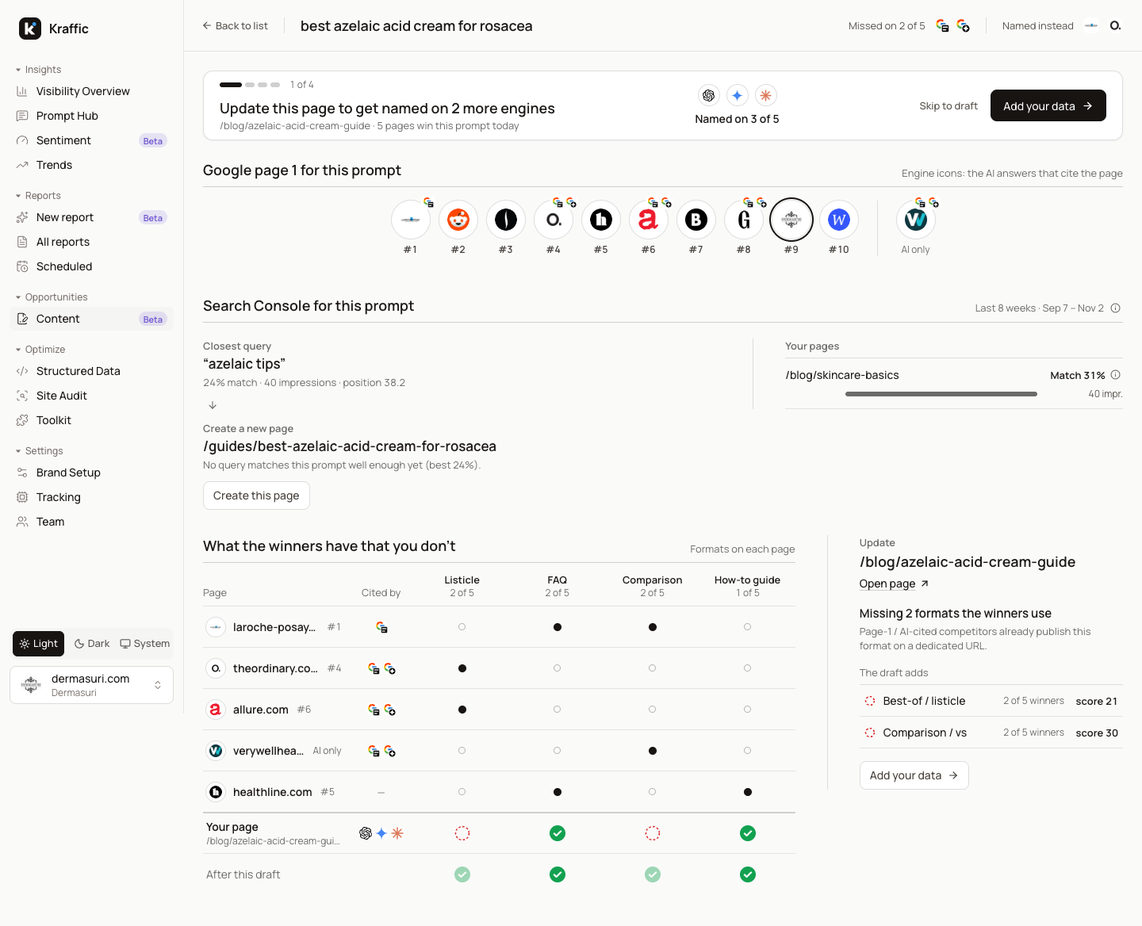
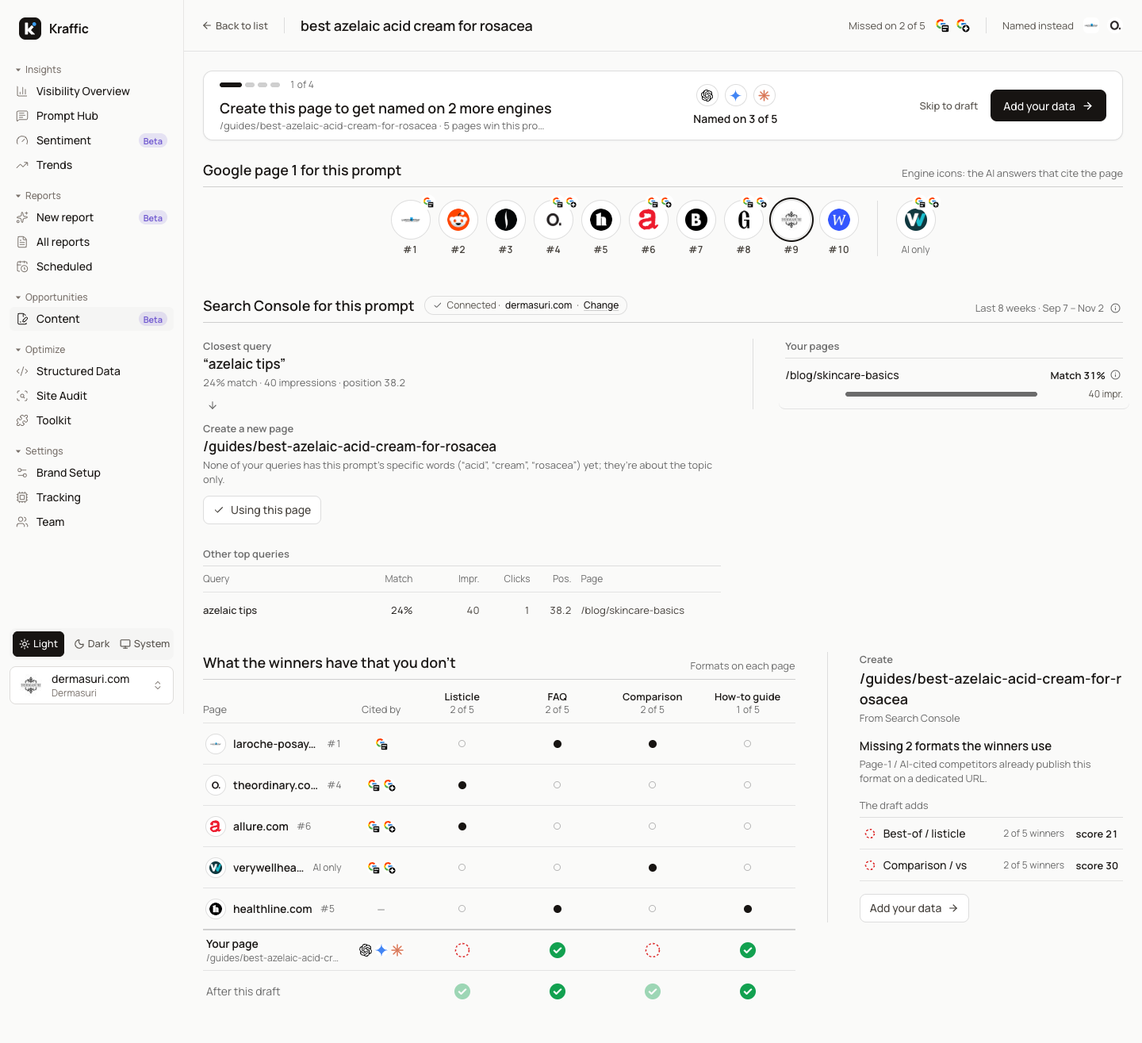
Search Console: the owner's intent rule replaces the proposed kinds (mirrors the app's matcher, feat/content-page 4385c8e). A query can be the Best query only if it matches the prompt's core intent words (the words that make it specific, not the topic): topic words = the prompt's key terms in at lea

diff --git a/src/data/gscMatch.js b/src/data/gscMatch.js
@@ -13,11 +13,14 @@
 //
 // Preview states (?co=): gsc-new = not connected · gsc-reconnect · gsc-nodomain · gsc-nodata (connected, no data).
 //
-// Intent fit (PROPOSED, owner 2026-11-04 "the best query follows the prompt's intent"; the mock's rule, to confirm):
-// a prompt and a query each read as a question / how-to, a comparison (best, top, vs, review) or a shopping search
-// (price, buy, deal, sale, coupon, near me, a store). A query whose kind clashes with the prompt's (a question or how-to
-// prompt vs a shopping query; a comparison prompt vs a how-to query) is scored ×0.7 (`intentFit: false`) and can't be
-// the Best query while a query that fits, with ≥ 10 impressions, exists.
+// Intent (owner, 2026-11-04; the app's matcher feat/content-page 4385c8e): a query can be the Best query only if it
+// matches the prompt's core intent term(s), the words that make the question specific ("breakouts" in "can
+// pigmentation serum cause breakouts"), not just the topic words. Topic words = the prompt's key terms found in at least
+// half of its matching queries (TOPIC_SHARE); intent words = its other key terms, without the local / account marker
+// words (those keep their half-score tag). Synonyms count as one: breakout(s) = acne = purging = pimples; cost = fees =
+// price; grow = growth = increase. Each query gets intentMatch (true when the prompt has no intent words); the list
+// sorts intent matches first, then by rank (adjusted × log10(impr + 1)); topic-only queries keep their score. Best:
+// an intent match with ≥ 10 impressions that isn't a site query; none → no Best (never a topic-only one).
 import { CO_BRAND, CO_BRANDS } from './contentOpportunities.js'
 import { coStates, gscKeywordsFor, newPageFor, promptWords } from './contentOpportunities-proposed.js'
 import { RM_BRAND } from './contentRecommendRm.js'
@@ -25,7 +28,7 @@ import { RM_BRAND } from './contentRecommendRm.js'
 export const MATCH_WEIGHTS = { coverage: 55, precision: 20, phrase: 25 }
 export const PAGE_WEIGHTS = { query: 45, volume: 20, rank: 15, url: 15, cited: 5 }
 export const INTENT_PENALTY = { account: 0.5, local: 0.5, site: 0.5 }
-export const MISFIT = 0.7 // a query whose kind clashes with the prompt's (intentFit: false)
+export const TOPIC_SHARE = 0.5
 export const BEST_MIN_IMPRESSIONS = 10
 export const CREATE_BELOW = 30
 export const LAG_NOTE = 'Search Console data is about 2 days behind.'
@@ -56,29 +59,27 @@ export function matchOf(prompt, query) {
   const phrase = q.slice(1).some((w, i) => pairs.has(`${q[i]} ${w}`)) ? 1 : 0
   return Math.round(MATCH_WEIGHTS.coverage * coverage + MATCH_WEIGHTS.precision * precision + MATCH_WEIGHTS.phrase * phrase)
 }
-// the kind of search: 'shop' (price, buy, deal, sale, coupon, near me, a store) · 'question' (how / what / why / can /
-// is …, how to) · 'compare' (best, top, vs, review) · null
-const SHOP = /\b(price|prices|buy|deal|deals|sale|coupon|discount|cheap|near me|shop|store|amazon|walmart|ulta|sephora|in stock)\b/
-const COMPARE = /\b(vs|versus|best|top|compare|comparison|review|reviews|rated)\b/
-const QUESTION = /^(how|what|why|can|is|are|does|do|should|when|which|will)\b|\bhow to\b/
-export const searchKind = (s) => { const t = String(s).toLowerCase(); return SHOP.test(t) ? 'shop' : QUESTION.test(t) ? 'question' : COMPARE.test(t) ? 'compare' : null }
-// does a query's kind fit the prompt's? (a question prompt vs a shopping query, or a comparison prompt vs a how-to: no)
-export const intentFits = (prompt, query) => {
-  const p = searchKind(prompt), q = searchKind(query)
-  if (p === 'question' && q === 'shop') return false
-  if (p === 'compare' && q === 'question') return false
-  return true
+// one word per meaning: synonyms (owner's list) and a plain plural → the same key
+const SYN = [['breakout', 'breakouts', 'acne', 'purging', 'pimple', 'pimples'], ['cost', 'costs', 'fee', 'fees', 'price', 'prices', 'pricing'], ['grow', 'grows', 'growth', 'increase', 'increases']]
+const SYN_OF = new Map(SYN.flatMap((g) => g.map((w) => [w, g[0]])))
+export const canon = (w) => SYN_OF.get(w) ?? (w.length > 4 && w.endsWith('s') && !w.endsWith('ss') ? w.slice(0, -1) : w)
+const canonWords = (s) => new Set(promptWords(s).map(canon))
+// the local / account markers aren't intent words (they keep their own half-score tag)
+const MARKER = (w) => ACCOUNT.test(w) || LOCAL.test(w) || w === 'near' || w === 'me'
+// the prompt's intent words, from its matching queries: its key terms that fewer than half of them contain
+export function intentTerms(prompt, queries) {
+  const terms = [...new Set(promptWords(prompt).map(canon))].filter((w) => !MARKER(w))
+  if (!queries.length) return terms
+  const sets = queries.map((q) => canonWords(q.query))
+  return terms.filter((t) => sets.filter((ws) => ws.has(t)).length / sets.length < TOPIC_SHARE)
 }
-const adjustedOf = (match, intent, fit = true) => Math.round(match * (intent ? INTENT_PENALTY[intent] : 1) * (fit ? 1 : MISFIT))
-// kind: the prompt's searchKind. Tiers: a well-matched query (≥ 30) of the prompt's own kind, else any query that fits,
-// else (none fits) the rest; within a tier the highest adjusted × log10(impr + 1)
-const bestOf = (queries, kind = null) => {
-  const top = (list) => list.reduce((b, q) => (!b || q.adjusted * Math.log10(q.impressions + 1) > b.adjusted * Math.log10(b.impressions + 1) ? q : b), null)
-  const eligible = queries.filter((q) => q.impressions >= BEST_MIN_IMPRESSIONS && q.intent !== 'site')
-  const fitting = eligible.filter((q) => q.intentFit !== false)
-  const same = kind ? fitting.filter((q) => searchKind(q.query) === kind && q.adjusted >= CREATE_BELOW) : []
-  return top(same.length ? same : fitting.length ? fitting : eligible)
-}
+export const intentMatchOf = (query, intent) => !intent.length || [...canonWords(query)].some((w) => intent.includes(w))
+const adjustedOf = (match, intent) => Math.round(match * (intent ? INTENT_PENALTY[intent] : 1))
+const rank = (q) => q.adjusted * Math.log10(q.impressions + 1)
+// Best: an intent match with ≥ 10 impressions, not a site query, the highest rank; none → null
+const bestOf = (queries) => queries
+  .filter((q) => q.impressions >= BEST_MIN_IMPRESSIONS && q.intent !== 'site' && q.intentMatch !== false)
+  .reduce((b, q) => (!b || rank(q) > rank(b) ? q : b), null)
 const pathOf = (url) => { try { return new URL(url).pathname.replace(/\/$/, '') || '/' } catch { return url } }
 
 // FNV-1a: the same prompt always gets the same numbers
@@ -93,11 +94,14 @@ export function analyzeRows(prompt, rows, { suggestedPath, cited = () => false, 
   const all = rows.map((r) => {
     const match = matchOf(prompt, r.keyword)
     const intent = intentOf(r.keyword, site)
-    const fit = intentFits(prompt, r.keyword)
-    return { query: r.keyword, match, adjusted: adjustedOf(match, intent, fit), intent, intentFit: fit, impressions: r.impressions, clicks: r.clicks, position: r.position, best: false, topPage: { url: r.url, path: pathOf(r.url), share: shareOf(r) } }
+    return { query: r.keyword, match, adjusted: adjustedOf(match, intent), intent, impressions: r.impressions, clicks: r.clicks, position: r.position, best: false, topPage: { url: r.url, path: pathOf(r.url), share: shareOf(r) } }
   })
-  const matching = all.filter((q) => q.match > 0).sort((a, b) => b.impressions - a.impressions)
-  const best = bestOf(matching, searchKind(prompt))
+  const found = all.filter((q) => q.match > 0)
+  const intentTermsOf = intentTerms(prompt, found)
+  // intent matches first, then by rank
+  const matching = found.map((q) => ({ ...q, intentMatch: intentMatchOf(q.query, intentTermsOf) }))
+    .sort((a, b) => (a.intentMatch === b.intentMatch ? 0 : a.intentMatch ? -1 : 1) || rank(b) - rank(a))
+  const best = bestOf(matching)
   const queries = matching.slice(0, 5).map((q) => ({ ...q, best: q === best }))
   if (best && !queries.some((q) => q.best)) queries.splice(4, 1, { ...best, best: true })
   const bestQuery = best ? { ...best, best: true } : null
@@ -132,7 +136,7 @@ export function analyzeRows(prompt, rows, { suggestedPath, cited = () => false, 
     const domain = (() => { try { return new URL(p.url).hostname.replace(/^www\./, '') } catch { return '' } })()
     return { url: p.url, path: p.path, key: `${domain}${p.path}`, score, parts, impressions, clicks, position, queries: p.qs.length, cited: Boolean(parts.cited) }
   }).sort((a, b) => b.score - a.score)
-  return { prompt, terms, queries, matchingQueries: matching.length, bestQuery, publishOn, topQueryPages, pages }
+  return { prompt, terms, intentTerms: intentTermsOf, queries, matchingQueries: matching.length, bestQuery, publishOn, topQueryPages, pages }
 }
 
 // the skincare list: the mock's sample queries for the prompt (gscKeywordsFor), plus, for some prompts, one account or
@@ -153,28 +157,35 @@ function dermasuriRows(row) {
     return base.filter((k) => matchOf(prompt, k.keyword) < 20).slice(0, 6)
       .concat([{ keyword: `${promptWords(prompt)[0] ?? 'skincare'} tips`, clicks: 1, impressions: 40, ctr: 2.5, position: 38.2, url: `https://${CO_BRAND.domain}/blog/skincare-basics` }])
   }
-  // the prompt's own kind of search, as people type it (a question prompt: the question, shorter; a comparison: "best
-  // X" / "X reviews"), among the busiest heads: the best query follows the prompt's intent
+  // a query with the prompt's intent words, as people type it, among the busiest heads ("can X cause breakouts" →
+  // "does X cause acne", a synonym; "best X for Y" → "X for Y"; "how to use X in a routine" → "X routine"; "X review"
+  // → "X reviews"), so the Best query follows the prompt's intent
   const own = (() => {
     const p = prompt.toLowerCase()
     const m = p.match(/^can (.+) cause (.+)$/) ?? null
-    if (m) return `does ${m[1]} cause ${m[2]}`
+    if (m) return `does ${m[1]} cause ${m[2] === 'breakouts' ? 'acne' : m[2]}`
     const use = p.match(/^how to use (.+?) in a routine$/)
-    if (use) return `how to use ${use[1]}`
-    const best = p.match(/^best (.+?)(?: for .+)?$/)
-    if (best) return `best ${best[1]}`
+    if (use) return `${use[1]} routine`
+    const best = p.match(/^best (.+?) for (.+)$/)
+    if (best) return `${best[1]} for ${best[2]}`
     const rev = p.match(/^(.+) review$/)
     if (rev) return `${rev[1]} reviews`
-    return null
+    // any other prompt: its topic plus the words that make it specific ("niacinamide serum for humid weather" →
+    // "niacinamide serum humid weather"), never the prompt word for word
+    const w = promptWords(prompt)
+    return w.length > 2 ? `${core} ${w.slice(2).join(' ')}` : null
   })()
+  // the extra (local / account / site) query carries the prompt's specific word too, like the app's sample's
+  // "…growth on my statement": tagged and scored at half, but an intent match, so it shows among the heads
+  const tail = promptWords(prompt).slice(2).at(-1) ?? ''
   const ownRow = own && !base.some((k) => k.keyword.toLowerCase() === own)
     ? [{ keyword: own, clicks: Math.round((heads[1] ?? 300) * 0.9 * 0.025), impressions: Math.round(((heads[1] ?? 300) * 0.9) / 10) * 10, ctr: 2.5, position: 8.4, url: url0 }]
     : []
   const extra = r < 0.55
-    ? { keyword: `${core} near me`, clicks: Math.round(extraImpr * 0.02), impressions: extraImpr, ctr: 2, position: 22.4, url: url0 }
-    : r < 0.75 ? { keyword: `my ${CO_BRAND.name.toLowerCase()} ${core} order`, clicks: Math.round(extraImpr * 0.03), impressions: extraImpr, ctr: 3, position: 9.8, url: `https://${CO_BRAND.domain}/account/orders` }
+    ? { keyword: `${core} ${tail} near me`.replace(/\s+/g, ' '), clicks: Math.round(extraImpr * 0.02), impressions: extraImpr, ctr: 2, position: 22.4, url: url0 }
+    : r < 0.75 ? { keyword: `my ${CO_BRAND.name.toLowerCase()} ${core} ${tail} order`.replace(/\s+/g, ' '), clicks: Math.round(extraImpr * 0.03), impressions: extraImpr, ctr: 3, position: 9.8, url: `https://${CO_BRAND.domain}/account/orders` }
       // a site query among the heads: a forum or a competitor by name (the "site" tag; never the Best query)
-      : { keyword: rnd(prompt, 'site') < 0.5 ? `${core} reddit` : `cerave ${core}`, clicks: Math.round(extraImpr * 0.02), impressions: Math.round(extraImpr * 1.6 / 10) * 10, ctr: 2, position: 14.6, url: url0 }
+      : { keyword: rnd(prompt, 'site') < 0.5 ? `${core} ${tail} reddit`.replace(/\s+/g, ' ') : `cerave ${core} ${tail}`.replace(/\s+/g, ' '), clicks: Math.round(extraImpr * 0.02), impressions: Math.round(extraImpr * 1.6 / 10) * 10, ctr: 2, position: 14.6, url: url0 }
   return [...base.filter((k) => norm(k.keyword) !== norm(extra.keyword)), ...ownRow, extra]
 }
 
@@ -184,21 +195,26 @@ const rmUrl = (path) => `https://www.${RM_BRAND.domain}${path}/`
 const RM_QUERY = (query, match, adjusted, intent, impressions, clicks, position, best, path, share) => ({ query, match, adjusted, intent, impressions, clicks, position, best, topPage: { url: rmUrl(path), path, share } })
 const RM_ANALYSIS = (() => {
   const LOC = '/learn/reverse-mortgage-line-of-credit'
+  // the owner's intent rule (the app's matcher): "grow" and "time" make this prompt specific (growth = grow), so the
+  // intent matches come first and the Best is "…growth rate"; the topic-only "reverse mortgage line of credit" ranks
+  // below them though it's busier
+  const Q = (...a) => ({ ...RM_QUERY(...a.slice(0, 10)), intentMatch: a[10] })
   const queries = [
-    RM_QUERY('reverse mortgage line of credit', 60, 60, null, 1220, 34, 19.5, true, LOC, 0.8032786885245902),
-    RM_QUERY('reverse mortgage line of credit growth rate', 75, 75, null, 210, 4, 9.6, false, LOC, 1),
-    RM_QUERY('hecm line of credit growth', 80, 80, null, 120, 2, 12.2, false, LOC, 1),
-    RM_QUERY('how does a reverse mortgage line of credit grow', 80, 80, null, 64, 1, 7.9, false, '/learn/how-reverse-mortgages-work', 1),
-    RM_QUERY('reverse mortgage line of credit growth on my statement', 75, 38, 'account', 40, 0, 31, false, '/account/statements', 1),
+    Q('reverse mortgage line of credit growth rate', 75, 75, null, 210, 4, 9.6, true, LOC, 1, true),
+    Q('hecm line of credit growth', 80, 80, null, 120, 2, 12.2, false, LOC, 1, true),
+    Q('how does a reverse mortgage line of credit grow', 80, 80, null, 64, 1, 7.9, false, '/learn/how-reverse-mortgages-work', 1, true),
+    Q('reverse mortgage line of credit growth on my statement', 75, 38, 'account', 40, 0, 31, false, '/account/statements', 1, true),
+    Q('reverse mortgage line of credit', 60, 60, null, 1220, 34, 19.5, false, LOC, 0.8032786885245902, false),
   ]
   const bestQuery = queries[0]
   return {
     prompt: RM_PROMPT,
     terms: ['hecm', 'loc', 'grow', 'time'],
+    intentTerms: ['grow', 'time'],
     queries,
     matchingQueries: 6,
     bestQuery,
-    publishOn: { action: 'update', url: rmUrl(LOC), path: LOC, share: bestQuery.topPage.share, match: 60, query: bestQuery.query, reason: 'several-queries', lowVolume: false },
+    publishOn: { action: 'update', url: rmUrl(LOC), path: LOC, share: bestQuery.topPage.share, match: 75, query: bestQuery.query, reason: 'several-queries', lowVolume: false },
     topQueryPages: queries.slice(0, 3).map((q) => ({ query: q.query, url: q.topPage.url, path: q.topPage.path, share: q.topPage.share })),
     pages: [
       { url: rmUrl(LOC), path: LOC, key: `${RM_BRAND.domain}${LOC}`, score: 76, parts: { query: 0.8, volume: 1, rank: 0.46896551724137936, url: 0.5, cited: 1 }, impressions: 1310, clicks: 37, position: 16.4, queries: 3, cited: true },

diff --git a/src/data/gscMatch.test.js b/src/data/gscMatch.test.js
@@ -31,16 +31,21 @@ test('intent: account and local queries are tagged and scored at half', () => {
   assert.equal(a.queries[0].adjusted, Math.round(a.queries[0].match * 0.5))
 })
 
-test('best query: the highest adjusted × log10(impressions + 1), only with ≥ 10 impressions', () => {
+test('best query: an intent match with ≥ 10 impressions, the highest adjusted × log10(impressions + 1); none → no Best', () => {
+  // topic: niacinamide, serum (in most queries); intent: dry, skin
   const a = analyzeRows('niacinamide serum dry skin', [
-    ROW('niacinamide serum dry skin routine', 9), // a full match, but too few impressions to be best
+    ROW('niacinamide serum dry skin routine', 9), // the only intent match, too few impressions
     ROW('niacinamide serum', 900, 'https://ex.com/b/'),
     ROW('niacinamide', 2000, 'https://ex.com/c/'),
   ], { suggestedPath: '/x' })
-  assert.ok(a.bestQuery.impressions >= BEST_MIN_IMPRESSIONS)
+  assert.equal(a.bestQuery, null, 'never a topic-only Best')
+  const b = analyzeRows('niacinamide serum dry skin', [
+    ROW('niacinamide serum for dry skin', 40), ROW('niacinamide serum dry skin review', 30), ROW('niacinamide serum', 900, 'https://ex.com/b/'), ROW('niacinamide', 2000, 'https://ex.com/c/'),
+  ], { suggestedPath: '/x' })
   const score = (q) => q.adjusted * Math.log10(q.impressions + 1)
-  for (const q of a.queries.filter((x) => x.impressions >= BEST_MIN_IMPRESSIONS)) assert.ok(score(a.bestQuery) >= score(q))
-  assert.equal(a.queries.filter((q) => q.best).length, 1)
+  assert.equal(b.bestQuery.intentMatch, true)
+  for (const q of b.queries.filter((x) => x.intentMatch && x.impressions >= BEST_MIN_IMPRESSIONS)) assert.ok(score(b.bestQuery) >= score(q))
+  assert.equal(b.queries.filter((q) => q.best).length, 1)
 })
 
 test('publish on: update the best query\'s page; create (with the suggested path) when the best match is under 30', () => {
@@ -64,11 +69,13 @@ test('the sample list: some prompts create a new page, some show account / local
 
 test('rm-1: the app\'s sample chain on the account\'s made-up domain; bestPageFor; the states', () => {
   const r = gscMatchFor(RM_ROW, { state: 'connected' })
-  assert.equal(r.bestQuery.query, 'reverse mortgage line of credit')
+  assert.equal(r.bestQuery.query, 'reverse mortgage line of credit growth rate', 'grow = growth: the intent match is Best')
+  assert.deepEqual(r.intentTerms, ['grow', 'time'])
+  assert.equal(r.queries.at(-1).query, 'reverse mortgage line of credit', 'the topic-only head ranks below the intent matches')
   assert.equal(r.publishOn.path, '/learn/reverse-mortgage-line-of-credit')
   assert.match(r.siteUrl, /harborlinehome\.com/)
   assert.ok(!JSON.stringify(r).includes('example-lender'))
-  assert.deepEqual(bestPageFor(RM_ROW, { state: 'connected' }), { prompt: RM_ROW.prompt, action: 'update', path: '/learn/reverse-mortgage-line-of-credit', url: r.publishOn.url, match: 60, query: 'reverse mortgage line of credit' })
+  assert.deepEqual(bestPageFor(RM_ROW, { state: 'connected' }), { prompt: RM_ROW.prompt, action: 'update', path: '/learn/reverse-mortgage-line-of-credit', url: r.publishOn.url, match: 75, query: 'reverse mortgage line of credit growth rate' })
   assert.deepEqual(gscMatchFor(RM_ROW, { state: 'new' }), { connected: false })
   assert.equal(gscMatchFor(RM_ROW, { state: 'reconnect' }).reason, 'reconnect')
   assert.equal(gscMatchFor(RM_ROW, { state: 'no-domain' }).reason, 'no-domain')
@@ -93,30 +100,32 @@ test('site queries (a forum, a store, a competitor by name or domain): tagged "s
   assert.equal(a.publishOn.path, '/products/face-mist', 'and never decides where to publish')
 })
 
-test('the best query follows the prompt\'s intent (PROPOSED rule): a clashing kind is ×0.7 and never Best while one that fits exists', async () => {
-  const { MISFIT, intentFits, searchKind } = await import('./gscMatch.js')
-  assert.equal(searchKind('how to use tinted sunscreen in a routine'), 'question')
-  assert.equal(searchKind('best face mist for dry skin'), 'compare')
-  assert.equal(searchKind('tinted sunscreen price'), 'shop')
-  assert.equal(intentFits('how to use tinted sunscreen in a routine', 'tinted sunscreen deal'), false)
-  assert.equal(intentFits('best face mist for dry skin', 'how to apply face mist'), false)
-  assert.equal(intentFits('best face mist for dry skin', 'face mist'), true)
-  // a question prompt: the busy shopping query clashes, scored ×0.7, and the how-to query is Best
-  const a = analyzeRows('how to use tinted sunscreen in a routine', [
-    ROW('buy tinted sunscreen deal', 9000, 'https://ex.com/products/tinted/'),
-    ROW('how to use tinted sunscreen', 300, 'https://ex.com/blog/tinted-routine/'),
-    ROW('tinted sunscreen', 4000, 'https://ex.com/products/tinted/'),
+test('owner\'s intent rule: topic words are in ≥ half the matching queries, the rest are intent words; synonyms count as one', async () => {
+  const { canon, intentTerms, intentMatchOf } = await import('./gscMatch.js')
+  for (const [a, b] of [['breakouts', 'acne'], ['purging', 'pimples'], ['cost', 'fees'], ['price', 'cost'], ['grow', 'growth'], ['increase', 'grow']]) assert.equal(canon(a), canon(b), `${a} = ${b}`)
+  const prompt = 'can pigmentation serum cause breakouts'
+  const qs = ['pigmentation serum', 'pigmentation serum benefits', 'does pigmentation serum cause acne', 'best pigmentation serum'].map((query) => ({ query }))
+  assert.deepEqual(intentTerms(prompt, qs), ['breakout'], 'pigmentation and serum are topic words')
+  assert.equal(intentMatchOf('does pigmentation serum cause acne', ['breakout']), true, 'acne = breakouts')
+  assert.equal(intentMatchOf('pigmentation serum', ['breakout']), false)
+  // local / account markers are never intent words
+  assert.ok(!intentTerms('face mist near me', [{ query: 'face mist' }]).includes('near'))
+  // topic-only queries keep their score (no penalty) but rank below every intent match, and are never Best
+  const a = analyzeRows(prompt, [
+    { keyword: 'pigmentation serum', impressions: 3000, clicks: 60, position: 6, url: 'https://ex.com/a/' },
+    { keyword: 'does pigmentation serum cause acne', impressions: 120, clicks: 3, position: 11, url: 'https://ex.com/b/' },
+    { keyword: 'pigmentation serum benefits', impressions: 800, clicks: 9, position: 9, url: 'https://ex.com/a/' },
   ], { suggestedPath: '/x' })
-  const shop = a.queries.find((q) => q.query === 'buy tinted sunscreen deal')
-  assert.equal(shop.intentFit, false)
-  assert.equal(shop.adjusted, Math.round(shop.match * MISFIT))
-  assert.equal(a.bestQuery.query, 'how to use tinted sunscreen', 'the prompt\'s own kind wins when it matches well')
-  assert.equal(a.publishOn.path, '/blog/tinted-routine')
-  // the sample: every question / comparison prompt with a page to update has a best query of its own kind
-  for (const r of missedPrompts) {
-    const g = gscMatchFor(r, { state: 'connected' })
-    const kind = searchKind(r.prompt)
-    if (!kind || g.publishOn.action !== 'update') continue
-    assert.equal(searchKind(g.bestQuery.query), kind, `${r.prompt} → ${g.bestQuery.query}`)
-  }
+  assert.equal(a.bestQuery.query, 'does pigmentation serum cause acne')
+  assert.equal(a.queries[0].intentMatch, true)
+  assert.ok(a.queries.slice(1).every((q) => !q.intentMatch))
+  const topic = a.queries.find((q) => q.query === 'pigmentation serum')
+  assert.equal(topic.adjusted, topic.match, 'no penalty on topic-only queries')
+})
+
+test('the sample follows the rule: every Best is an intent match; the synonym case shows', () => {
+  const all = missedPrompts.map((r) => gscMatchFor(r, { state: 'connected' }))
+  for (const a of all) if (a.bestQuery) assert.equal(a.bestQuery.intentMatch, true, a.prompt)
+  const p = all.find((a) => /cause breakouts/.test(a.prompt))
+  assert.match(p.bestQuery.query, /acne/)
 })

diff --git a/src/pages/opportunities/workspace/SearchMatch.jsx b/src/pages/opportunities/workspace/SearchMatch.jsx
@@ -159,7 +159,10 @@ const UseButton = ({ using, label, onClick }) => (
 // the query-first chain: the best query → the page to publish on → the action. Publish on IS the target page unless
 // the user picked another one in Your pages ("Using this page"); then the button takes it back.
 function Chain({ gsc, page, onPick }) {
-  const q = gsc.bestQuery
+  // no Best (no query has the prompt's specific words, the owner's intent rule): the closest one, about the topic only
+  const q = gsc.bestQuery ?? (gsc.publishOn.action === 'create' ? gsc.queries[0] ?? null : null)
+  const topicOnly = !gsc.bestQuery && Boolean(q)
+  const words = (gsc.intentTerms ?? []).map((w) => `“${w}”`).join(', ')
   const p = gsc.publishOn
   const create = p.action === 'create'
   const onPage = create ? 0 : gsc.queries.filter((x) => x.topPage.path === p.path).length
@@ -179,7 +182,8 @@ function Chain({ gsc, page, onPick }) {
         <p className="mt-0.5 break-all text-[17px] leading-6 font-semibold text-stone-900">{create ? p.suggestedPath : p.path}</p>
         <p className={`mt-0.5 ${META}`}>
           {create
-            ? (q ? `No query matches this prompt well enough yet (best ${q.adjusted}%).` : 'None of your pages gets impressions for this prompt’s queries yet.')
+            ? (topicOnly ? `None of your queries has this prompt’s specific words${words ? ` (${words})` : ''} yet; they’re about the topic only.`
+              : q ? `No query matches this prompt well enough yet (best ${q.adjusted}%).` : 'None of your pages gets impressions for this prompt’s queries yet.')
             : <>Gets {pct(p.share)} of that query’s impressions{onPage >= 2 && <> · {onPage} of the top queries land here</>}</>}
         </p>
         {!create && p.lowVolume && <p className={`mt-0.5 ${META}`}>Few searches so far: every match is under 10 impressions.</p>}

diff --git a/src/pages/opportunities/Workspace.jsx b/src/pages/opportunities/Workspace.jsx
@@ -116,7 +116,9 @@ function Flow({ row }) {
   const page = useMemo(() => {
     const p = pageOf(res.pageRecommendation)
     if (!choice) return { ...p, source: 'route' }
-    return { ...p, action: choice.action, path: choice.path, url: choiceUrl, href: choice.action === 'update' ? choiceUrl : null, source: scPick ? 'pick' : 'sc' }
+    // the route's reason is about its own page ("that path redirects to the homepage…"): another page gets the general line
+    const reason = choice.path === p.path ? p.reason : 'Page-1 and AI-cited pages already publish these formats; the draft adds them to this page.'
+    return { ...p, action: choice.action, path: choice.path, url: choiceUrl, href: choice.action === 'update' ? choiceUrl : null, reason, source: scPick ? 'pick' : 'sc' }
   }, [res, choice?.path, choice?.action, scPick]) // eslint-disable-line react-hooks/exhaustive-deps
   const saved = useMemo(() => draftFor(row.id, row), [row])
   const [gsc, setGsc] = useState(() => kept?.gsc ?? gscStatus()) // 'connected' | 'declined' | 'new' | 'skipped' (continued without it)

diff --git a/docs/port-content.md b/docs/port-content.md
@@ -42,7 +42,7 @@ don't port it until the line says approved.
 | 208bd43 | Overview: "Cited pages by folder" replaces Top cited pages (donut + legend, hover, History since / one-sync states) and its drawer (FolderDrawer: engine chips, Citations · Cited pages · Folders, 5 folder lines, pages grouped by folder, weekly list, Export CSV); `utils/citedFolders.js` grouping; `utils/brand.js` displayName for competitor names in the Mentions and citations drawer. Needs per-citation URL rows (prompt × engine × raw URL) from the app | Approved · ported by the app |
 | 8d2d9d2 | Cited pages by folder: the donut centre shows only the % (no name, count or mini trend, at rest or on hover); `CitedFolders.jsx` | Owner fix · port with 208bd43 |
 | 9416ecd | Sentiment grid: dots scattered organically per quadrant (`utils/spectrum.js` quadrantScatter, seeded by page URL; 10px apart, 24px clear of edges / cross / labels; drift-in entrance); grid min 248px | Approved · port it (with the scatter tweak) |
-| 424d55b | Content: Search Console access (Connect step before the ladder, connecting spinner, "Connected · <domain> · Change" chip, skipped row, list banner), ONE target page everywhere (Workspace `page`: pick ?? Publish on ?? the route's page → Update column, payoff bar, Copy & publish, targetUrl), best query follows the prompt's intent (`intentFit`, ×0.7; PROPOSED rule, owner to confirm) | Owner request · waiting for screenshot review |
+| 424d55b | Content: Search Console access (Connect step before the ladder, connecting spinner, "Connected · <domain> · Change" chip, skipped row, list banner), ONE target page everywhere (Workspace `page`: pick ?? Publish on ?? the route's page → Update column, payoff bar, Copy & publish, targetUrl), best query follows the prompt's intent (replaced by the owner's rule: see the next commit) | Owner request · waiting for screenshot review |
 | de2f86d | Sentiment scatter tweak: 24px clear of the cross's two lines and the edges (dot edge + badge, from a line's far side; badge inside the dot's corner; `EDGE = 25`) | Owner tweak · port with 9416ecd |
 
 ## 1. Routes and navigation
@@ -433,13 +433,16 @@ Search Console property). Reconnect / no-domain / no-data keep their rows inside
 connected (never asked or skipped), a one-line banner over the KPI cards "Connect Search Console to find the best page
 for every prompt · Connect" (Connect → the same round trip; the Best page column fills in).
 
-**Intent fit (PROPOSED rule, to confirm with the owner):** each prompt and query reads as a question / how-to, a
-comparison (best, top, vs, review) or a shopping search (price, buy, deal, sale, coupon, near me, a store)
-(`searchKind`). A query whose kind clashes with the prompt's (question prompt vs shopping query; comparison prompt vs
-how-to query) gets `intentFit: false` and ×0.7 (`MISFIT`); Best is chosen first among well-matched (≥ 30) queries of
-the prompt's own kind, then among queries that fit, and only if none fits, among the rest. The sample gives each
-question / comparison prompt a query of its own kind ("does X cause breakouts", "how to use X", "best X", "X
-reviews"), so every such prompt's best query follows its intent. `intentFit` is a PROPOSED field on each query.
+**Intent (the owner's rule, 2026-11-04; the app's matcher feat/content-page 4385c8e):** a query can be the Best query
+only if it matches the prompt's core intent term(s), the words that make the question specific ("breakouts" in "can
+pigmentation serum cause breakouts"), not just the topic words. Topic words = the prompt's key terms present in ≥ 50% of
+its matching queries (`TOPIC_SHARE`); intent words = its other key terms, without local / account marker words (those
+keep their half-score tag). Synonyms: breakout(s) = acne = purging = pimples; cost = fees = price; grow = growth =
+increase (`canon`). Each query has `intentMatch` (true when the prompt has no intent words); the list sorts intent
+matches first, then by rank (adjusted × log10(impr + 1)); topic-only queries keep their score (no penalty). Best: an
+intent match with ≥ 10 impressions, not a site query; none → no Best (never a topic-only one), so publish on falls back
+to create. analyzePrompt returns `intentTerms`. Sample: rm-1's Best is "reverse mortgage line of credit growth rate";
+"can pigmentation serum cause breakouts" → "does pigmentation serum cause acne".
 
 **Content list "Best page"** (`ContentList.jsx` column via `MissedPrompts` `extraColumns`, 248px): the path
 (middle-truncated) + match %, or "New page" (muted) when `action === 'create'`; hover / focus: the full URL and
